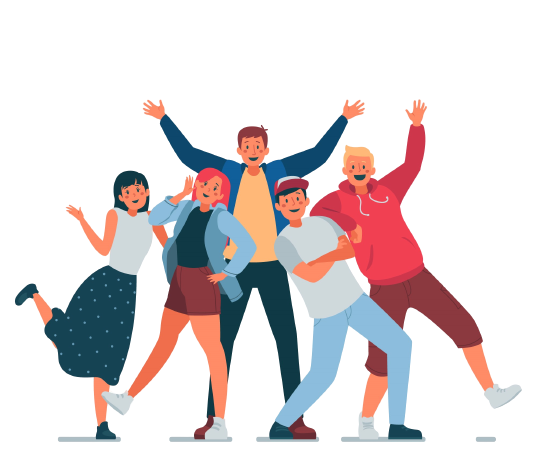
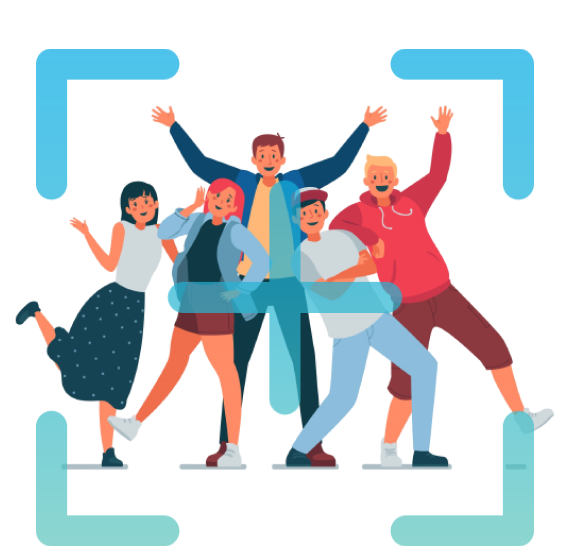
Update: 메인 페이지 사진들 수정

diff --git a/moweb_front/src/views/MainView.vue b/moweb_front/src/views/MainView.vue
@@ -15,10 +15,7 @@
           </span>
         </div>
         <!-- <span class="logoTitle">순간뽀짝</span> -->
-        <div class="photoGroupOne">
-          <div class="cameraFrame"></div>
-          <div class="friends"></div>
-        </div>
+        <div class="friends"></div>
         <span class="explainOne"
           >친구들과 사진을 촬영하고<br />잊지 못할 추억을 만들어 보세요!</span
         ><span class="explainTwo"
@@ -167,29 +164,6 @@ body {
   font-size: 1rem;
   overflow: hidden;
 }
-.photoGroupOne {
-  width: 100%;
-  height: 100%;
-  background-repeat: no-repeat;
-  background-position: center center;
-  background-size: cover;
-  opacity: 1;
-  position: absolute;
-  top: 27%;
-  left: 16%;
-  overflow: hidden;
-}
-.cameraFrame {
-  width: 300px;
-  height: 300px;
-  background: url("@/assets/images/cameraFrame.png");
-  background-repeat: no-repeat;
-  background-position: center center;
-  background-size: cover;
-  opacity: 100%;
-  position: absolute;
-  overflow: hidden;
-}
 .friends {
   width: 270px;
   height: 270px;
@@ -198,29 +172,17 @@ body {
   background-position: center center;
   background-size: cover;
   opacity: 85%;
-  position: relative;
-  top: 0;
-  left: 2em;
+  position: absolute;
+  top: 18%;
+  left: 16%;
   overflow: hidden;
 }
 .explainOne {
   width: 100%;
   color: rgba(0, 0, 0, 1);
   position: absolute;
-  top: 30%;
+  top: 20%;
   left: 58%;
-  font-family: SCDream;
-  font-weight: 3;
-  font-size: 2rem;
-  opacity: 1;
-  text-align: left;
-}
-.explainTwo {
-  width: 100%;
-  color: rgba(0, 0, 0, 1);
-  position: absolute;
-  top: 40%;
-  left: 14.5%;
   font-family: SCDream;
   font-weight: 3;
   font-size: 2rem;
@@ -236,9 +198,21 @@ body {
   background-size: cover;
   opacity: 1;
   position: absolute;
-  top: 40%;
-  left: 59%;
+  top: 30%;
+  left: 58%;
   overflow: hidden;
+}
+.explainTwo {
+  width: 100%;
+  color: rgba(0, 0, 0, 1);
+  position: absolute;
+  top: 31%;
+  left: 14.5%;
+  font-family: SCDream;
+  font-weight: 3;
+  font-size: 2rem;
+  opacity: 1;
+  text-align: left;
 }
 .containerFirst {
   width: 80%;
@@ -259,7 +233,7 @@ body {
   background-size: cover;
   opacity: 1;
   position: absolute;
-  top: 34.5%;
+  top: 51%;
   left: 15%;
   overflow: hidden;
 }
@@ -267,7 +241,7 @@ body {
   width: 130px;
   color: rgba(0, 0, 0, 1);
   position: absolute;
-  top: 35.5%;
+  top: 51%;
   left: 62%;
   font-family: SCDream;
   font-weight: 5;
@@ -279,7 +253,7 @@ body {
   width: 450px;
   color: rgba(0, 0, 0, 1);
   position: absolute;
-  top: 36.5%;
+  top: 51%;
   left: 62%;
   font-family: SCDream;
   font-weight: 3;
